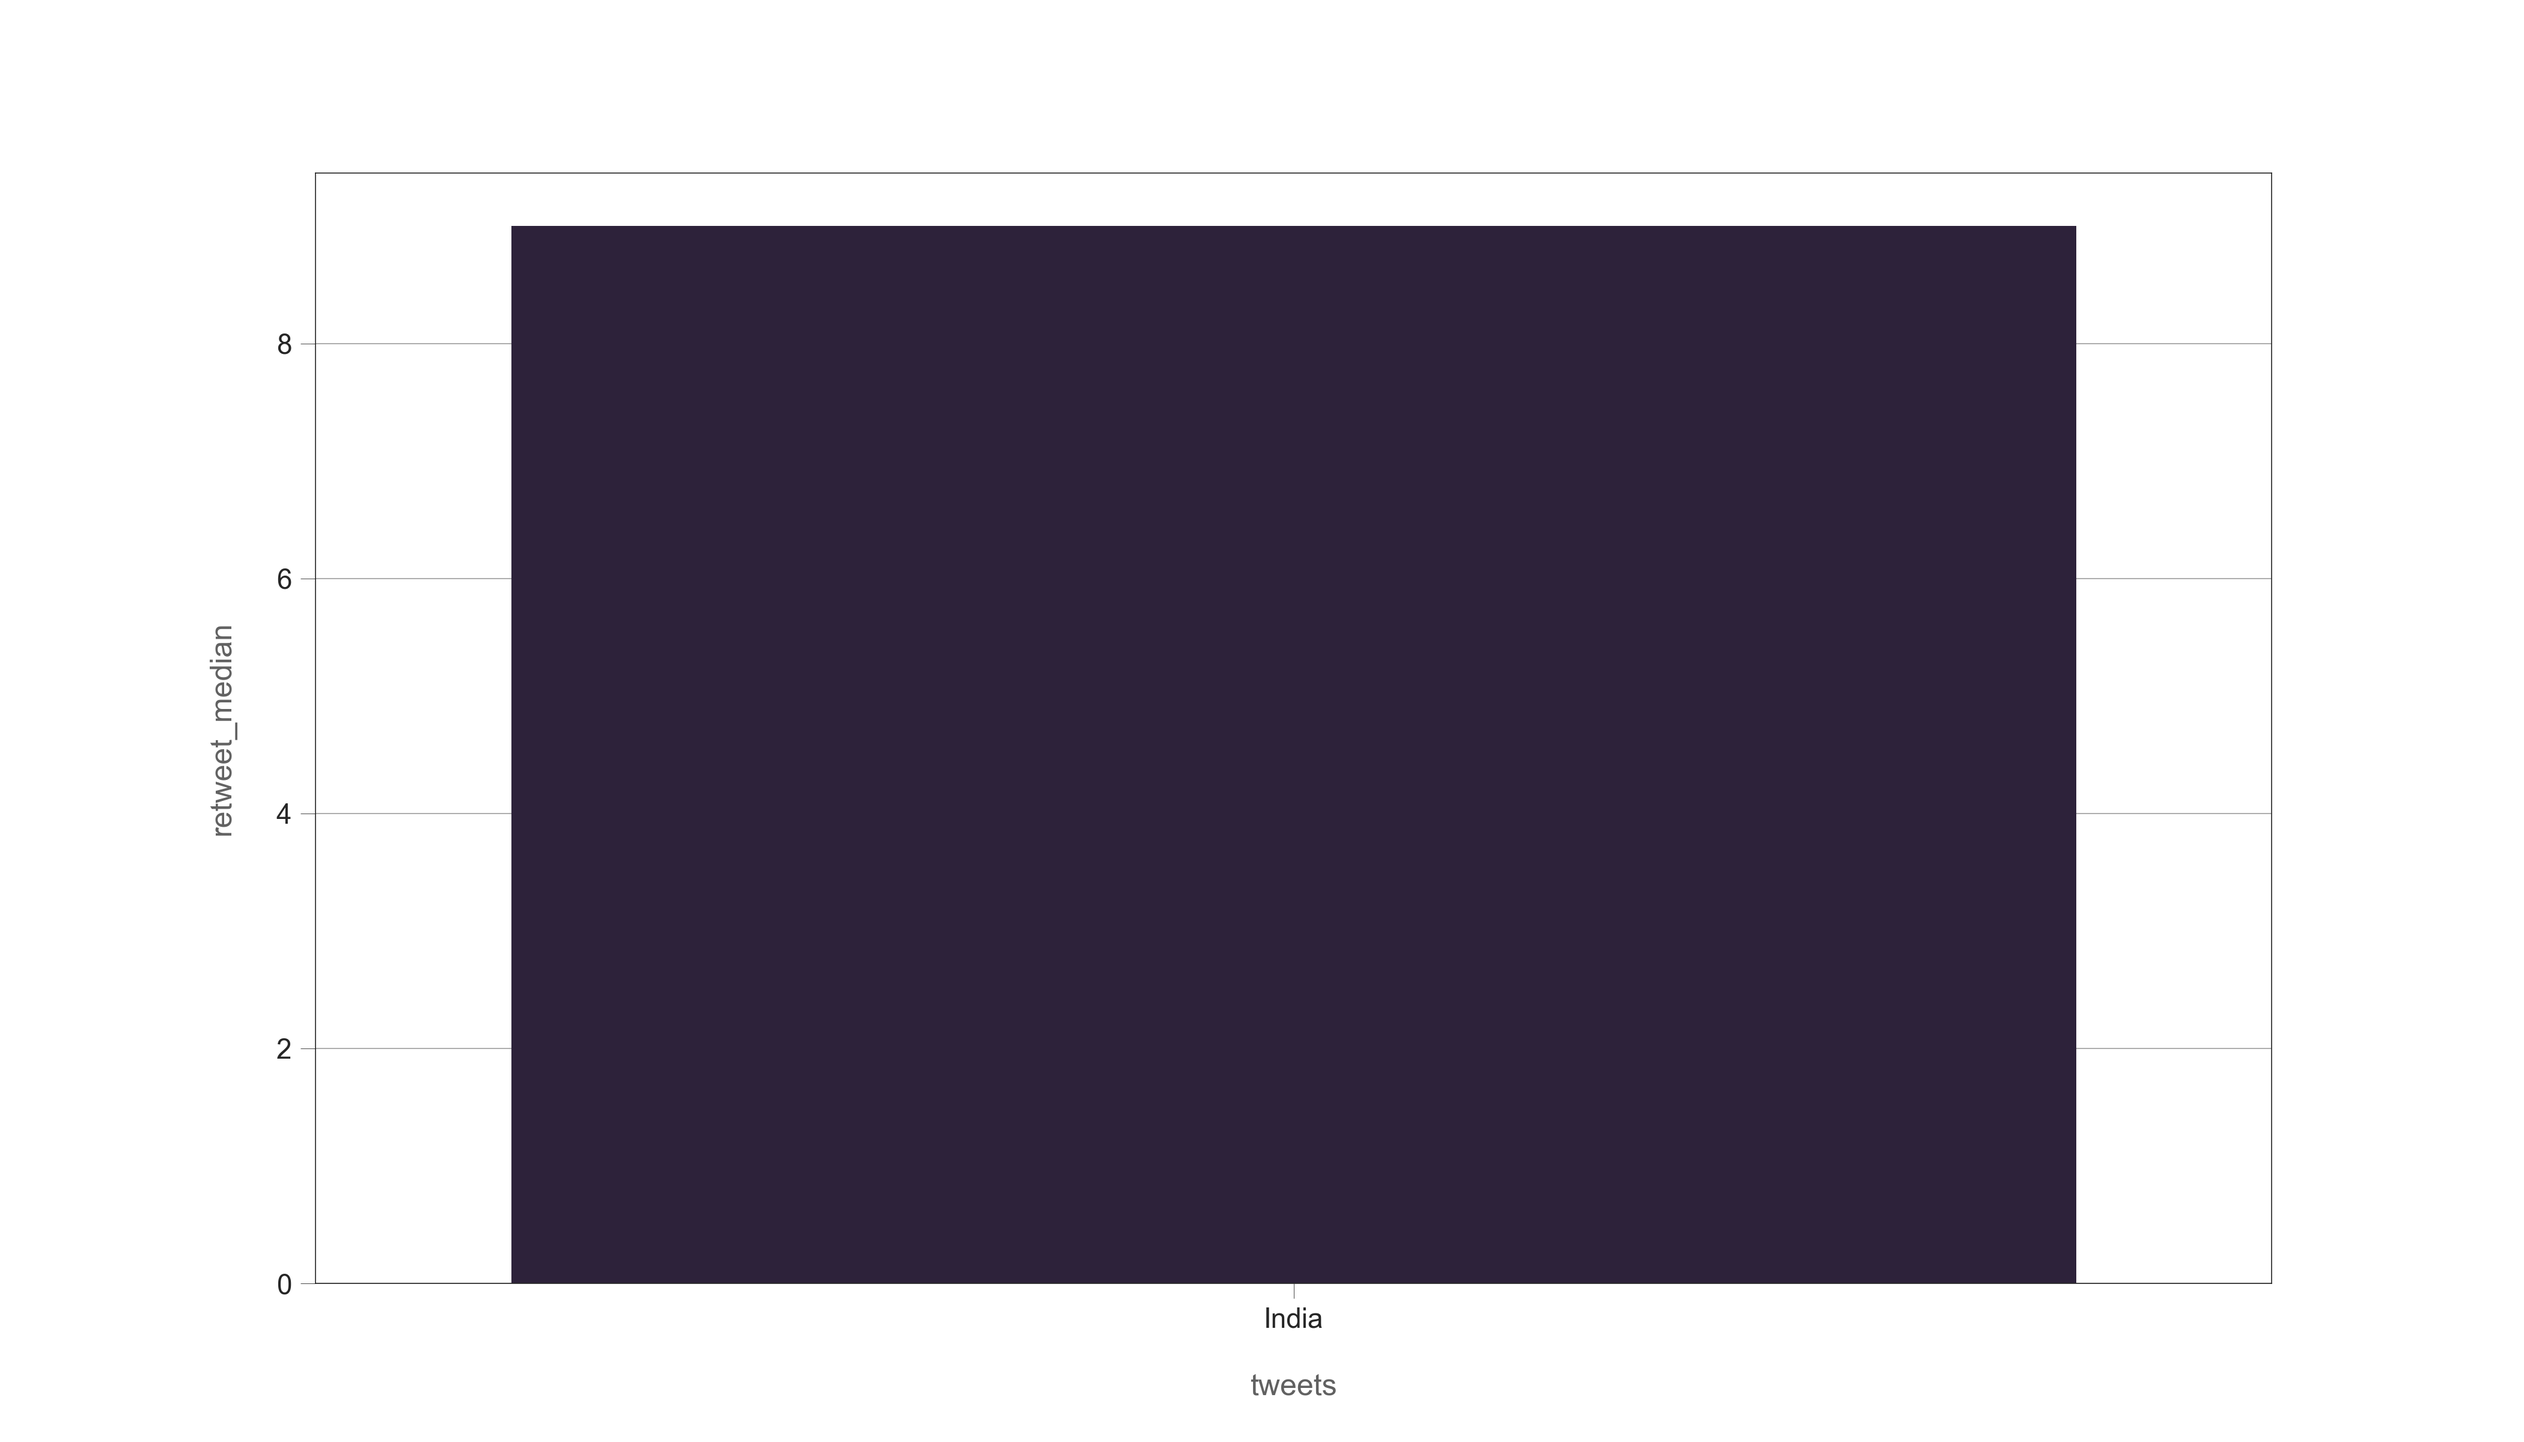
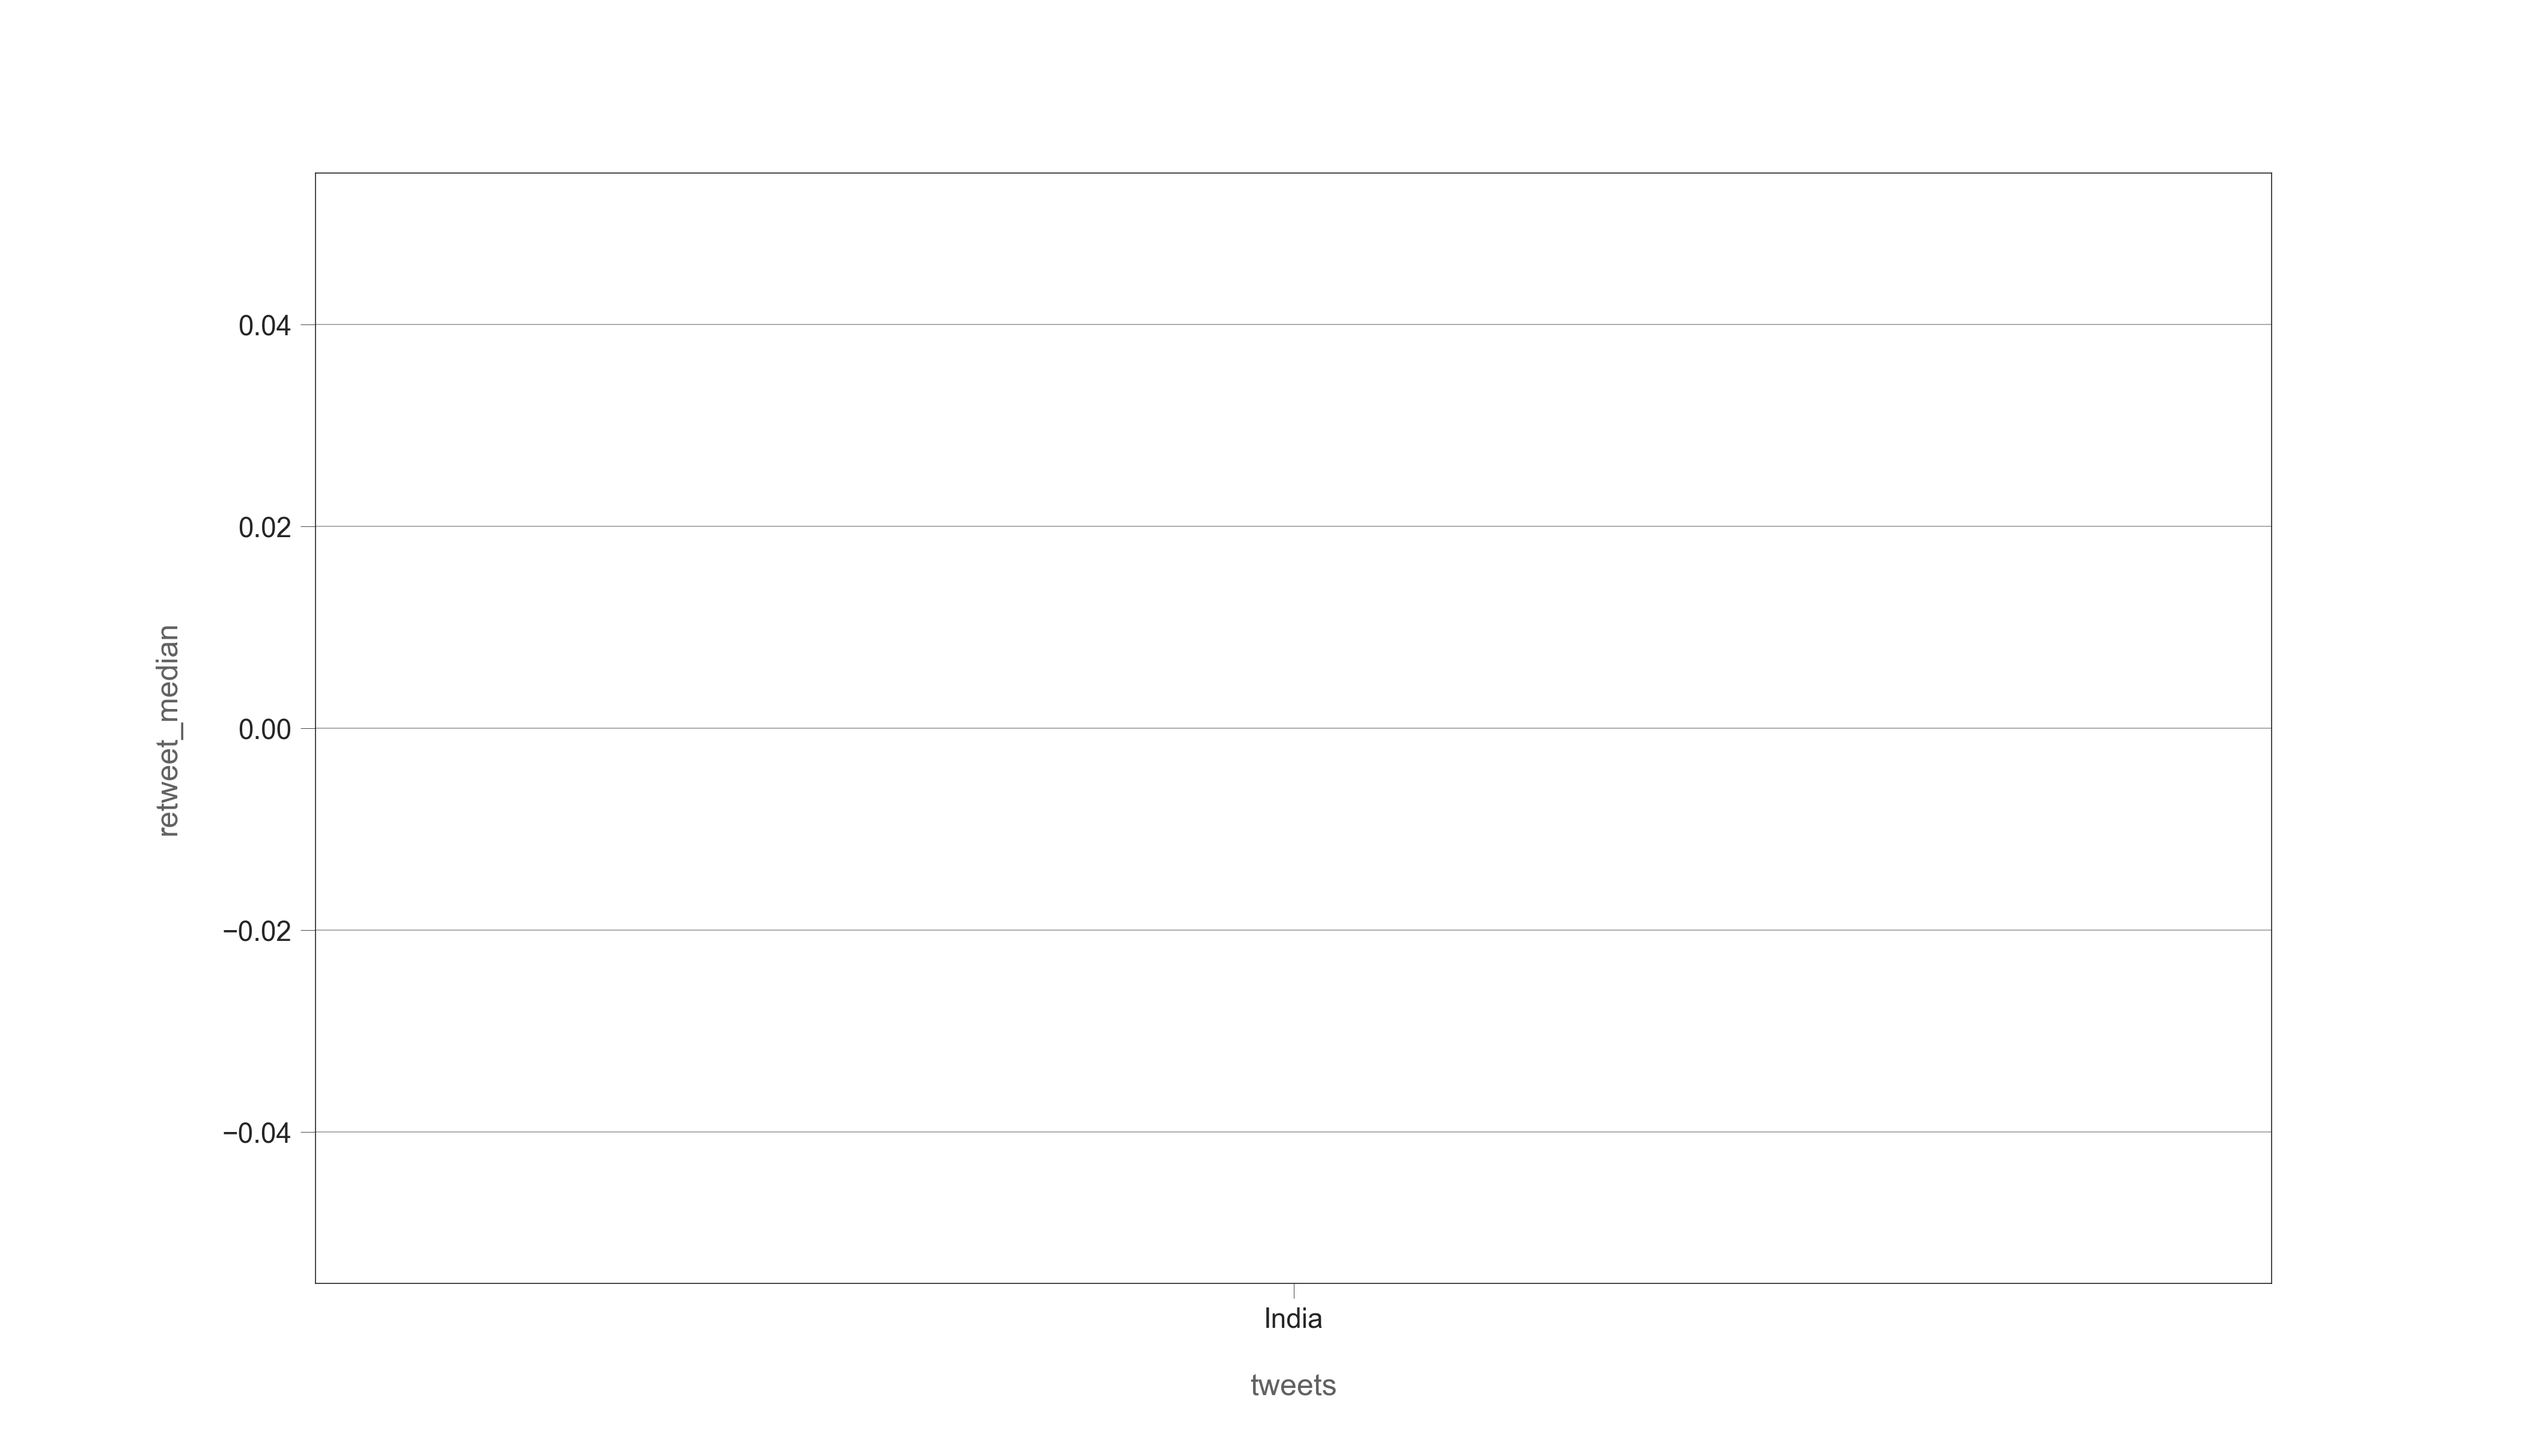
youtube visualization temp

diff --git a/twitterdash/static/css/python_heatmap.html b/twitterdash/static/css/python_heatmap.html
@@ -19,65 +19,61 @@
             dissipating: true,
             map: map,
             data: [
-                new google.maps.LatLng(40.714550, -74.007140),
+                new google.maps.LatLng(53.408387, -1.969560),
+                new google.maps.LatLng(47.603570, -122.329450),
+                new google.maps.LatLng(24.121370, 44.548827),
+                new google.maps.LatLng(42.074698, -93.499972),
+                new google.maps.LatLng(26.010670, -80.160260),
+                new google.maps.LatLng(40.896512, -77.838751),
+                new google.maps.LatLng(14.328520, -89.442790),
+                new google.maps.LatLng(7.120734, -66.162820),
+                new google.maps.LatLng(10.454190, -66.536100),
+                new google.maps.LatLng(41.013840, 28.949660),
+                new google.maps.LatLng(37.449140, -76.292720),
+                new google.maps.LatLng(45.589140, 5.281930),
+                new google.maps.LatLng(50.623171, -4.731937),
+                new google.maps.LatLng(18.157695, -77.311106),
+                new google.maps.LatLng(29.879760, -90.435610),
+                new google.maps.LatLng(5.533340, -0.263420),
+                new google.maps.LatLng(9.593697, 8.106778),
+                new google.maps.LatLng(-8.277700, -35.981540),
+                new google.maps.LatLng(6.454700, 3.388760),
+                new google.maps.LatLng(56.095130, 9.549060),
+                new google.maps.LatLng(1.290410, 103.852110),
+                new google.maps.LatLng(6.454700, 3.388760),
+                new google.maps.LatLng(51.713090, -5.036013),
+                new google.maps.LatLng(52.548274, 0.762635),
+                new google.maps.LatLng(41.013840, 28.949660),
+                new google.maps.LatLng(-34.614547, -58.446322),
                 new google.maps.LatLng(51.507408, -0.127699),
-                new google.maps.LatLng(2.936490, 101.691530),
-                new google.maps.LatLng(53.790793, -1.754564),
-                new google.maps.LatLng(53.408387, -1.969560),
-                new google.maps.LatLng(50.666870, 8.600890),
-                new google.maps.LatLng(34.232940, -102.410200),
-                new google.maps.LatLng(53.408387, -1.969560),
-                new google.maps.LatLng(23.379380, 79.443327),
-                new google.maps.LatLng(12.966180, 77.586900),
-                new google.maps.LatLng(50.640683, 4.661070),
-                new google.maps.LatLng(53.408387, -1.969560),
-                new google.maps.LatLng(36.598540, -82.180790),
-                new google.maps.LatLng(43.648690, -79.385440),
-                new google.maps.LatLng(35.539344, -79.185418),
-                new google.maps.LatLng(53.408387, -1.969560),
-                new google.maps.LatLng(28.566045, -81.688649),
-                new google.maps.LatLng(35.539344, -79.185418),
-                new google.maps.LatLng(53.408387, -1.969560),
-                new google.maps.LatLng(-1.283330, -78.483330),
-                new google.maps.LatLng(43.141370, -80.261730),
-                new google.maps.LatLng(55.169509, -114.511042),
-                new google.maps.LatLng(39.398703, -99.414619),
-                new google.maps.LatLng(53.408387, -1.969560),
-                new google.maps.LatLng(18.495498, 103.768057),
-                new google.maps.LatLng(28.566045, -81.688649),
-                new google.maps.LatLng(49.260380, -123.113360),
-                new google.maps.LatLng(34.232940, -102.410200),
-                new google.maps.LatLng(48.752350, -122.471220),
-                new google.maps.LatLng(-36.776440, 144.311340),
-                new google.maps.LatLng(33.395920, -110.789200),
-                new google.maps.LatLng(43.648690, -79.385440),
-                new google.maps.LatLng(34.053570, -118.245450),
-                new google.maps.LatLng(51.620115, -3.941436),
-                new google.maps.LatLng(39.103440, -94.583110),
-                new google.maps.LatLng(53.408387, -1.969560),
-                new google.maps.LatLng(46.872540, -96.884840),
-                new google.maps.LatLng(-37.817390, 144.967510),
-                new google.maps.LatLng(50.406200, -4.823108),
-                new google.maps.LatLng(36.167840, -86.778160),
-                new google.maps.LatLng(32.702730, 74.878700),
-                new google.maps.LatLng(-34.474180, 150.854360),
-                new google.maps.LatLng(25.526050, 77.205580),
-                new google.maps.LatLng(53.546240, -113.490370),
-                new google.maps.LatLng(39.049280, -95.671180),
+                new google.maps.LatLng(-6.893000, 107.585660),
+                new google.maps.LatLng(26.714400, -80.053290),
+                new google.maps.LatLng(39.632930, -105.319030),
+                new google.maps.LatLng(40.227950, -3.646063),
+                new google.maps.LatLng(-27.166670, 32.333330),
+                new google.maps.LatLng(31.571820, -97.149500),
+                new google.maps.LatLng(0.315890, 32.575010),
+                new google.maps.LatLng(51.320017, -2.208046),
                 new google.maps.LatLng(38.890370, -77.031960),
-                new google.maps.LatLng(2.745580, 101.709920),
-                new google.maps.LatLng(36.065730, -79.790950),
+                new google.maps.LatLng(41.191850, -111.967580),
+                new google.maps.LatLng(23.379380, 79.443327),
+                new google.maps.LatLng(-26.204910, 28.040060),
+                new google.maps.LatLng(40.063950, -74.143510),
                 new google.maps.LatLng(51.507408, -0.127699),
-                new google.maps.LatLng(18.940170, 72.834830),
-                new google.maps.LatLng(48.236100, -101.296100),
-                new google.maps.LatLng(39.008127, -75.467472),
-                new google.maps.LatLng(38.350160, -81.638950),
-                new google.maps.LatLng(50.448250, -104.595170),
-                new google.maps.LatLng(-31.952650, 115.857420),
-                new google.maps.LatLng(49.488740, -121.421230),
-                new google.maps.LatLng(50.640683, 4.661070),
-                new google.maps.LatLng(53.382526, -1.468536),
-                new google.maps.LatLng(37.547040, -122.314850),
+                new google.maps.LatLng(34.053570, -118.245450),
+                new google.maps.LatLng(37.665880, -91.847930),
+                new google.maps.LatLng(40.714550, -74.007140),
+                new google.maps.LatLng(48.857170, 2.341400),
+                new google.maps.LatLng(53.546240, -113.490370),
+                new google.maps.LatLng(53.022201, -2.173368),
+                new google.maps.LatLng(30.314283, 70.210104),
+                new google.maps.LatLng(45.648160, -89.651810),
+                new google.maps.LatLng(9.039530, 7.483203),
+                new google.maps.LatLng(18.157695, -77.311106),
+                new google.maps.LatLng(9.593697, 8.106778),
+                new google.maps.LatLng(14.164863, 120.861630),
+                new google.maps.LatLng(36.171930, -115.140010),
+                new google.maps.LatLng(14.604870, 120.986270),
             ]
         });
 

diff --git a/twitterdash/routes.py b/twitterdash/routes.py
@@ -41,29 +41,29 @@ def dash():
             tweets_df = pd.read_csv("saved_tweets.csv")
             visualizations(tweets_df)
             #uncomment for map
-#            coordinates = {'latitude': [], 'longitude': []}
-#            for count, user_loc in enumerate(tweets_df.location):
-#                try:
-#                    if(user_loc.isspace()):
-#                        print("true")
-#                    location = geocoder.arcgis(user_loc)
-#
-#                    # If coordinates are found for location
-#                    if location:
-#                        coordinates['latitude'].append(location.y)
-#                        coordinates['longitude'].append(location.x)
-#
-#                # If too many connection requests
-#                except:
-#                    pass
-#
-#            # Instantiate and center a GoogleMapPlotter object to show our map
-#            gmap = gmplot.GoogleMapPlotter(30, 0, 3,apikey="AIzaSyC0yld0y8Ic_rJ_Jip5EdY3iQr-UrfRR1c")
-#            # Insert points on the map passing a list of latitudes and longitudes
-#            gmap.heatmap(coordinates['latitude'], coordinates['longitude'], radius=20)
-#            #
-#            ## Save the map to html file
-#            gmap.draw("twitterdash/static/css/python_heatmap.html")
+            coordinates = {'latitude': [], 'longitude': []}
+            for count, user_loc in enumerate(tweets_df.location):
+                try:
+                    if(user_loc.isspace()):
+                        print("true")
+                    location = geocoder.arcgis(user_loc)
+
+                    # If coordinates are found for location
+                    if location:
+                        coordinates['latitude'].append(location.y)
+                        coordinates['longitude'].append(location.x)
+
+                # If too many connection requests
+                except:
+                    pass
+
+            # Instantiate and center a GoogleMapPlotter object to show our map
+            gmap = gmplot.GoogleMapPlotter(30, 0, 3,apikey="AIzaSyC0yld0y8Ic_rJ_Jip5EdY3iQr-UrfRR1c")
+            # Insert points on the map passing a list of latitudes and longitudes
+            gmap.heatmap(coordinates['latitude'], coordinates['longitude'], radius=20)
+            #
+            ## Save the map to html file
+            gmap.draw("twitterdash/static/css/python_heatmap.html")
             
             
             tweets_text = list(tweets_df['text'])
@@ -161,6 +161,7 @@ def dash():
         elif(option == "Youtube"):
             youtube_comments(query)
             tweets_df = pd.read_csv("saved_tweets.csv")
+            visualizations(tweets_df)
             tweets_text = list(tweets_df['text'])
             total_tweets = tweets_df['comments'][1]
             total_retweets = tweets_df['likes_count'][1]
